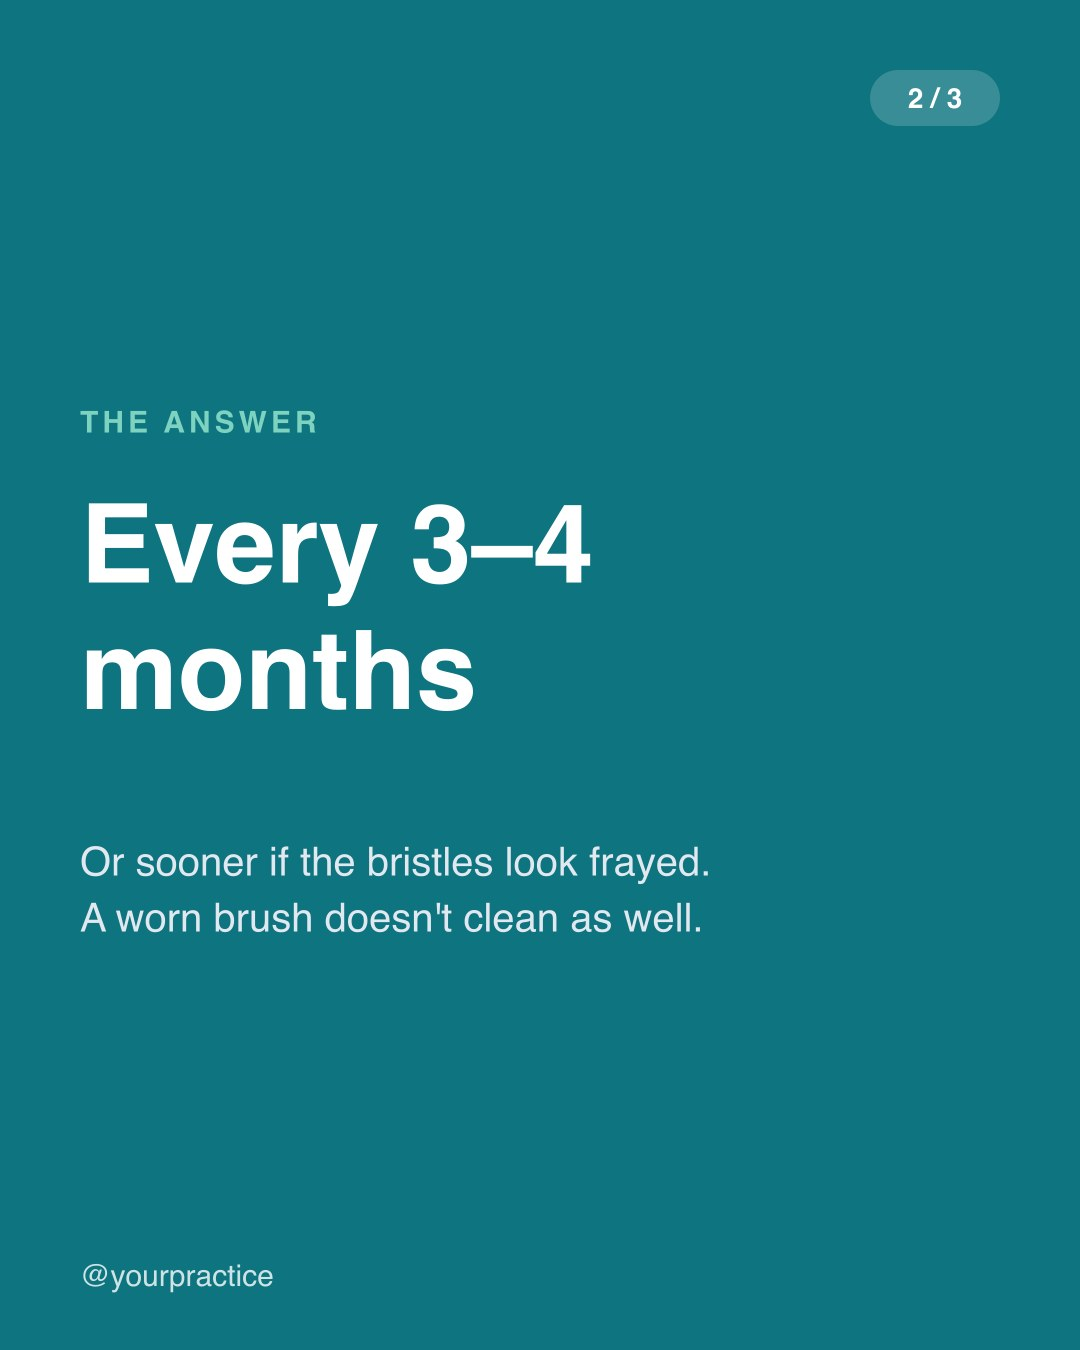
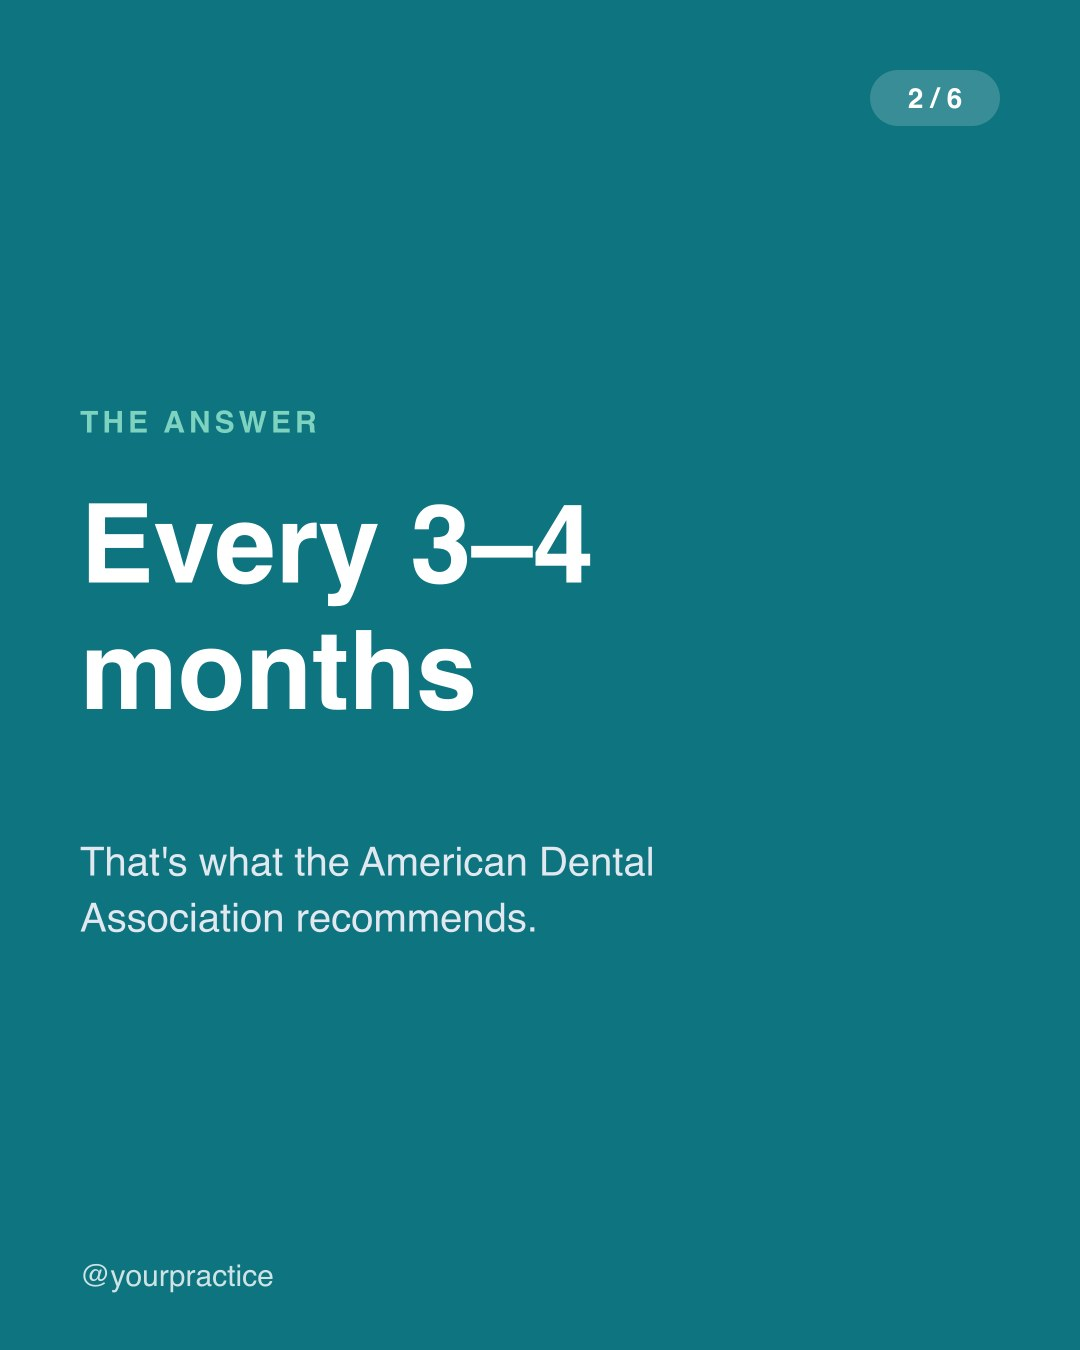
Social carousel sample: 6 slides to match the 5–7 slide carousel offer

Changed region(s): [[0.0611, 0.6222, 0.6722, 0.7156]]

diff --git a/src/data/samples.ts b/src/data/samples.ts
@@ -28,6 +28,9 @@ import saturdayHours from '~/assets/images/social/saturday-hours.jpg';
 import toothbrushTip1 from '~/assets/images/social/toothbrush-tip-1.jpg';
 import toothbrushTip2 from '~/assets/images/social/toothbrush-tip-2.jpg';
 import toothbrushTip3 from '~/assets/images/social/toothbrush-tip-3.jpg';
+import toothbrushTip4 from '~/assets/images/social/toothbrush-tip-4.jpg';
+import toothbrushTip5 from '~/assets/images/social/toothbrush-tip-5.jpg';
+import toothbrushTip6 from '~/assets/images/social/toothbrush-tip-6.jpg';
 import transformationPoster from '~/assets/images/reels/transformation-reel-poster.jpg';
 import mythFactPoster from '~/assets/images/reels/myth-fact-poster.jpg';
 
@@ -116,11 +119,17 @@ export const social: Record<'hours' | 'tip', LabelledItem> = {
     alt: 'Carousel slide 1: How often should you replace your toothbrush?',
     slides: [
       { image: toothbrushTip1, alt: 'Carousel slide 1: How often should you replace your toothbrush?' },
-      { image: toothbrushTip2, alt: 'Carousel slide 2: Every 3–4 months, or sooner if the bristles look frayed' },
-      { image: toothbrushTip3, alt: 'Carousel slide 3: Due for a check-up? Book your visit' },
+      {
+        image: toothbrushTip2,
+        alt: 'Carousel slide 2: Every 3–4 months, as the American Dental Association recommends',
+      },
+      { image: toothbrushTip3, alt: 'Carousel slide 3: Replace it sooner if the bristles fray' },
+      { image: toothbrushTip4, alt: 'Carousel slide 4: Electric brush heads follow the same rule' },
+      { image: toothbrushTip5, alt: 'Carousel slide 5: Let it air-dry between brushings' },
+      { image: toothbrushTip6, alt: 'Carousel slide 6: Due for a check-up? Book your visit' },
     ],
-    title: 'Care tip · 3-slide carousel',
-    description: 'A question, the answer and a call to book. Each slide invites a swipe to the next.',
+    title: 'Care tip · 6-slide carousel',
+    description: 'A question, the answer, three quick tips and a call to book. Each slide invites a swipe to the next.',
     fixes: ['Carousel', 'Care tip', 'Call to action'],
   },
 };
